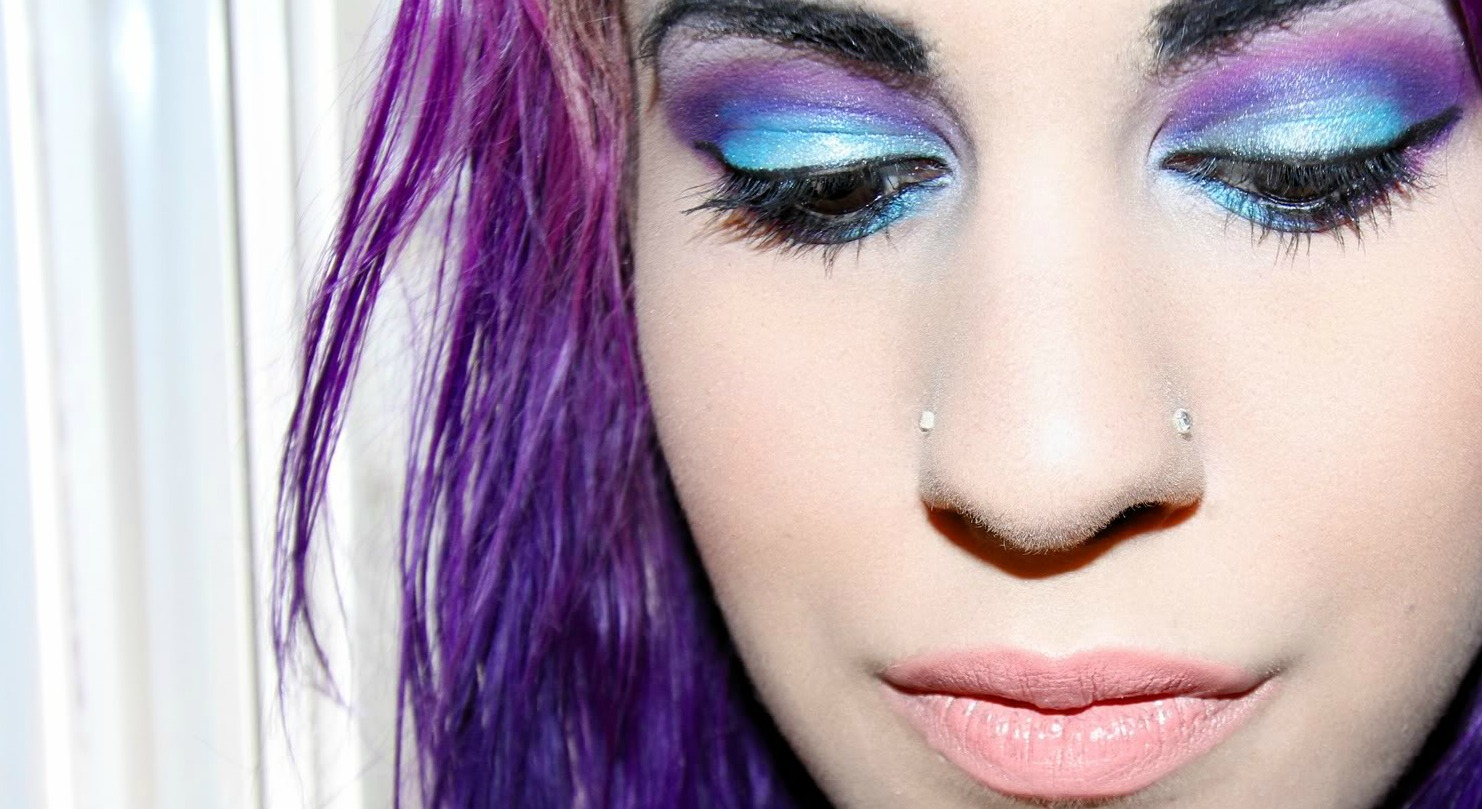
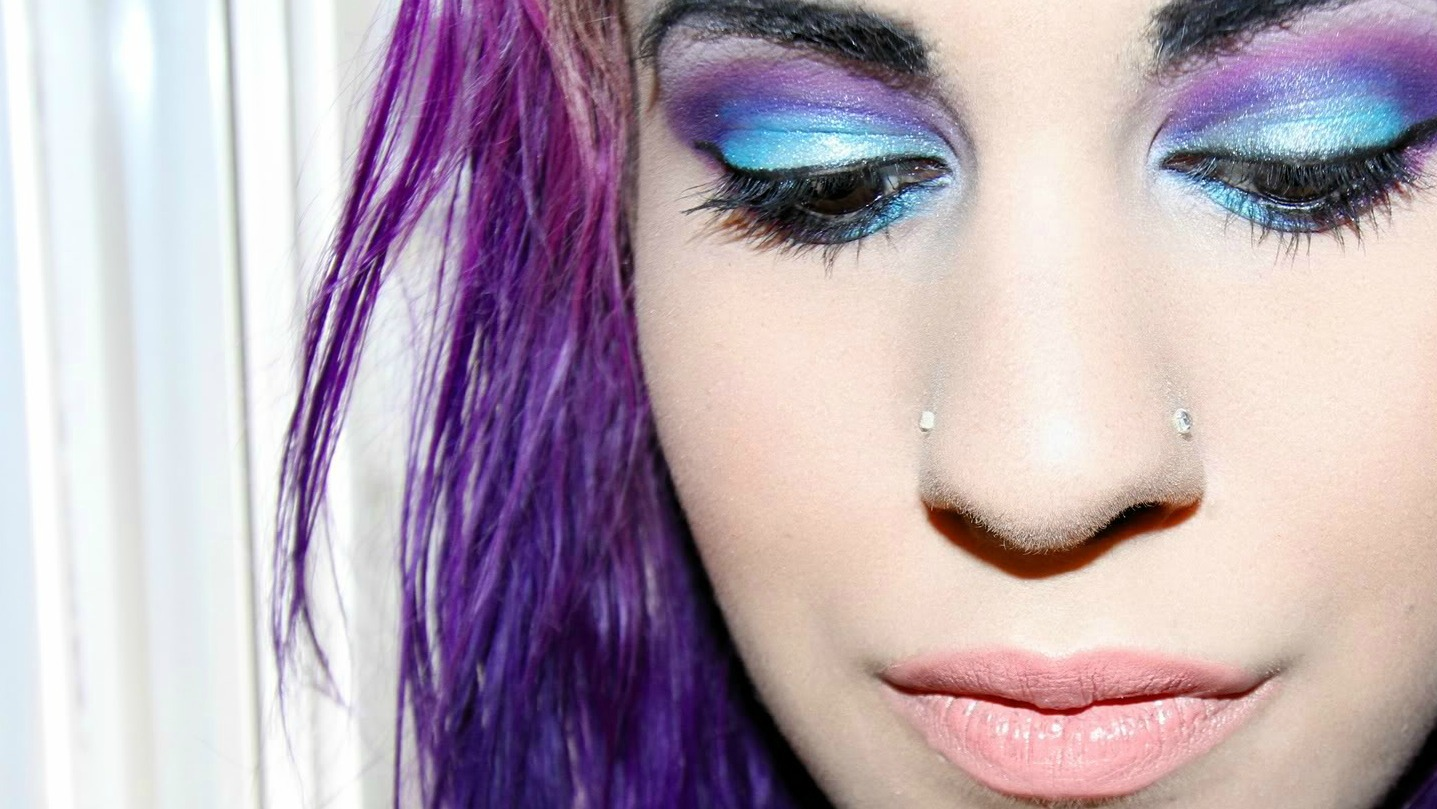
fix min/max height issue with main img

diff --git a/css/stylesheet.css b/css/stylesheet.css
@@ -64,12 +64,6 @@ body{
 /*position: relative;*/
 }
 
- img[rel="main"] {
-  position: absolute;
-  max-height: 100%;
-  min-width: 100%;
-}
-
 .container {
   display: flex;
   height: 100vh;
@@ -78,6 +72,12 @@ body{
   flex-direction: row;
   flex-wrap: wrap;
   align-items: stretch;
+}
+
+img[rel="main"] {
+ position: absolute;
+ height: 100%;
+ width: 100%;
 }
 
 .container > * {
@@ -127,13 +127,10 @@ cursor: pointer; cursor: hand;
 
 #mid1 {
     position: relative;
-    /*border: 5px solid black;
-    background: purple;*/
-    width: 100vw;
+    width: 100%;
     display: inline-flex;
     justify-content: center;
     align-items: flex-end;
-    width: 100vw;
     font-size: 32px;
     margin-top: auto;
   }
@@ -145,9 +142,7 @@ cursor: pointer; cursor: hand;
 
 #mid2 {
     position: relative;
-    /*border: 5px solid black;
-    background: orange;*/
-    width: 100vw;
+    width: 100%;
     display: inline-flex;
     justify-content: center;
   }
@@ -161,7 +156,7 @@ cursor: pointer; cursor: hand;
     position: relative;
     /*border: 5px solid black;
     background: green;*/
-    width: 100vw;
+    width: 100%;
     display: inline-flex;
     margin-left: 45vw;
     margin-right: 40vw;
@@ -200,7 +195,7 @@ cursor: pointer; cursor: hand;
     order: 1;
     position: relative;
     display: flex;
-    width: 100vw;
+    width: 100%;
     display: inline-flex;
     align-items: flex-end;
 }
@@ -407,18 +402,18 @@ img[rel="img6"]:hover {
 
   #mid1 {
       position: relative;
-      display: inline-flex;
       justify-content: center;
       align-items: center;
       font-size: 0;
       width: 0vw;
+      height: 0vh;
       margin-top: auto;
     }
 
     h3 {
       font-size: 0px;
       width: 0vw;
-      font-family: Courier;
+      font-family: none;
       margin-left:0vw;
     }
 

diff --git a/index.html b/index.html
@@ -10,6 +10,11 @@
         </div>
 
         <div class="container">
+
+          <div id="background">
+            <img rel="main" src="img/mainimg.JPG"/>
+          </div>
+          
               <header id="header">
                 <div id="header-content">
                     <ul>
